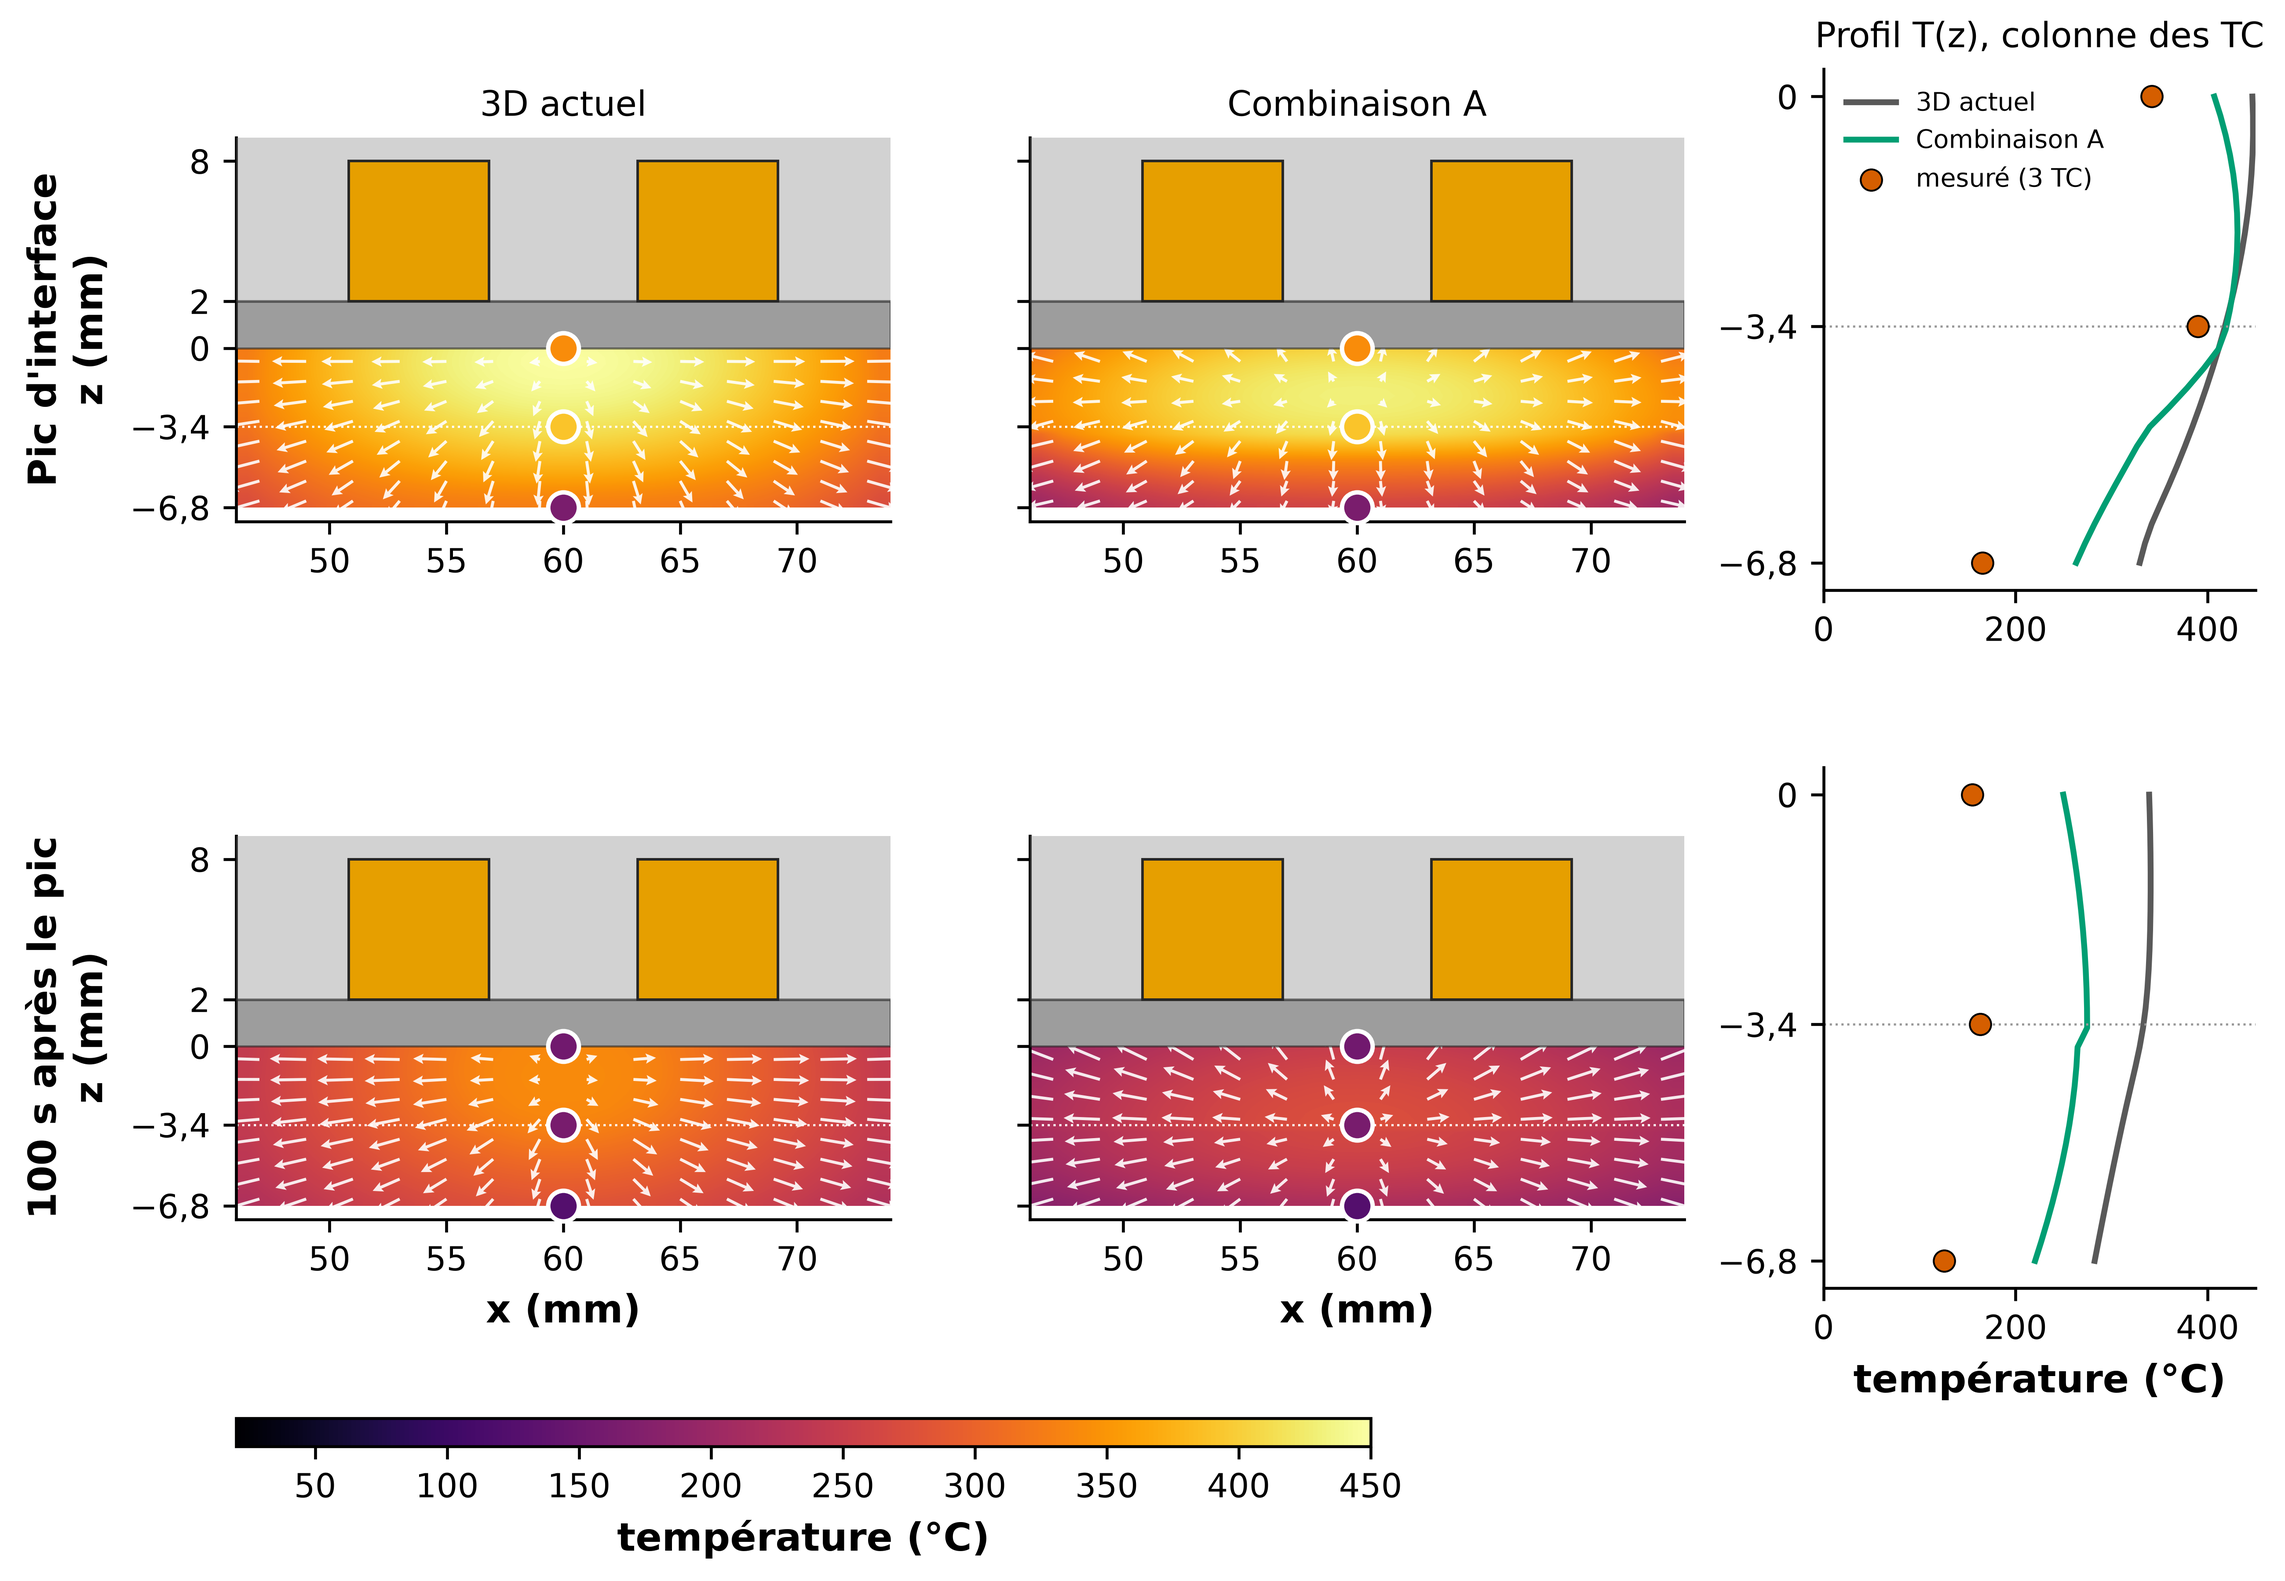
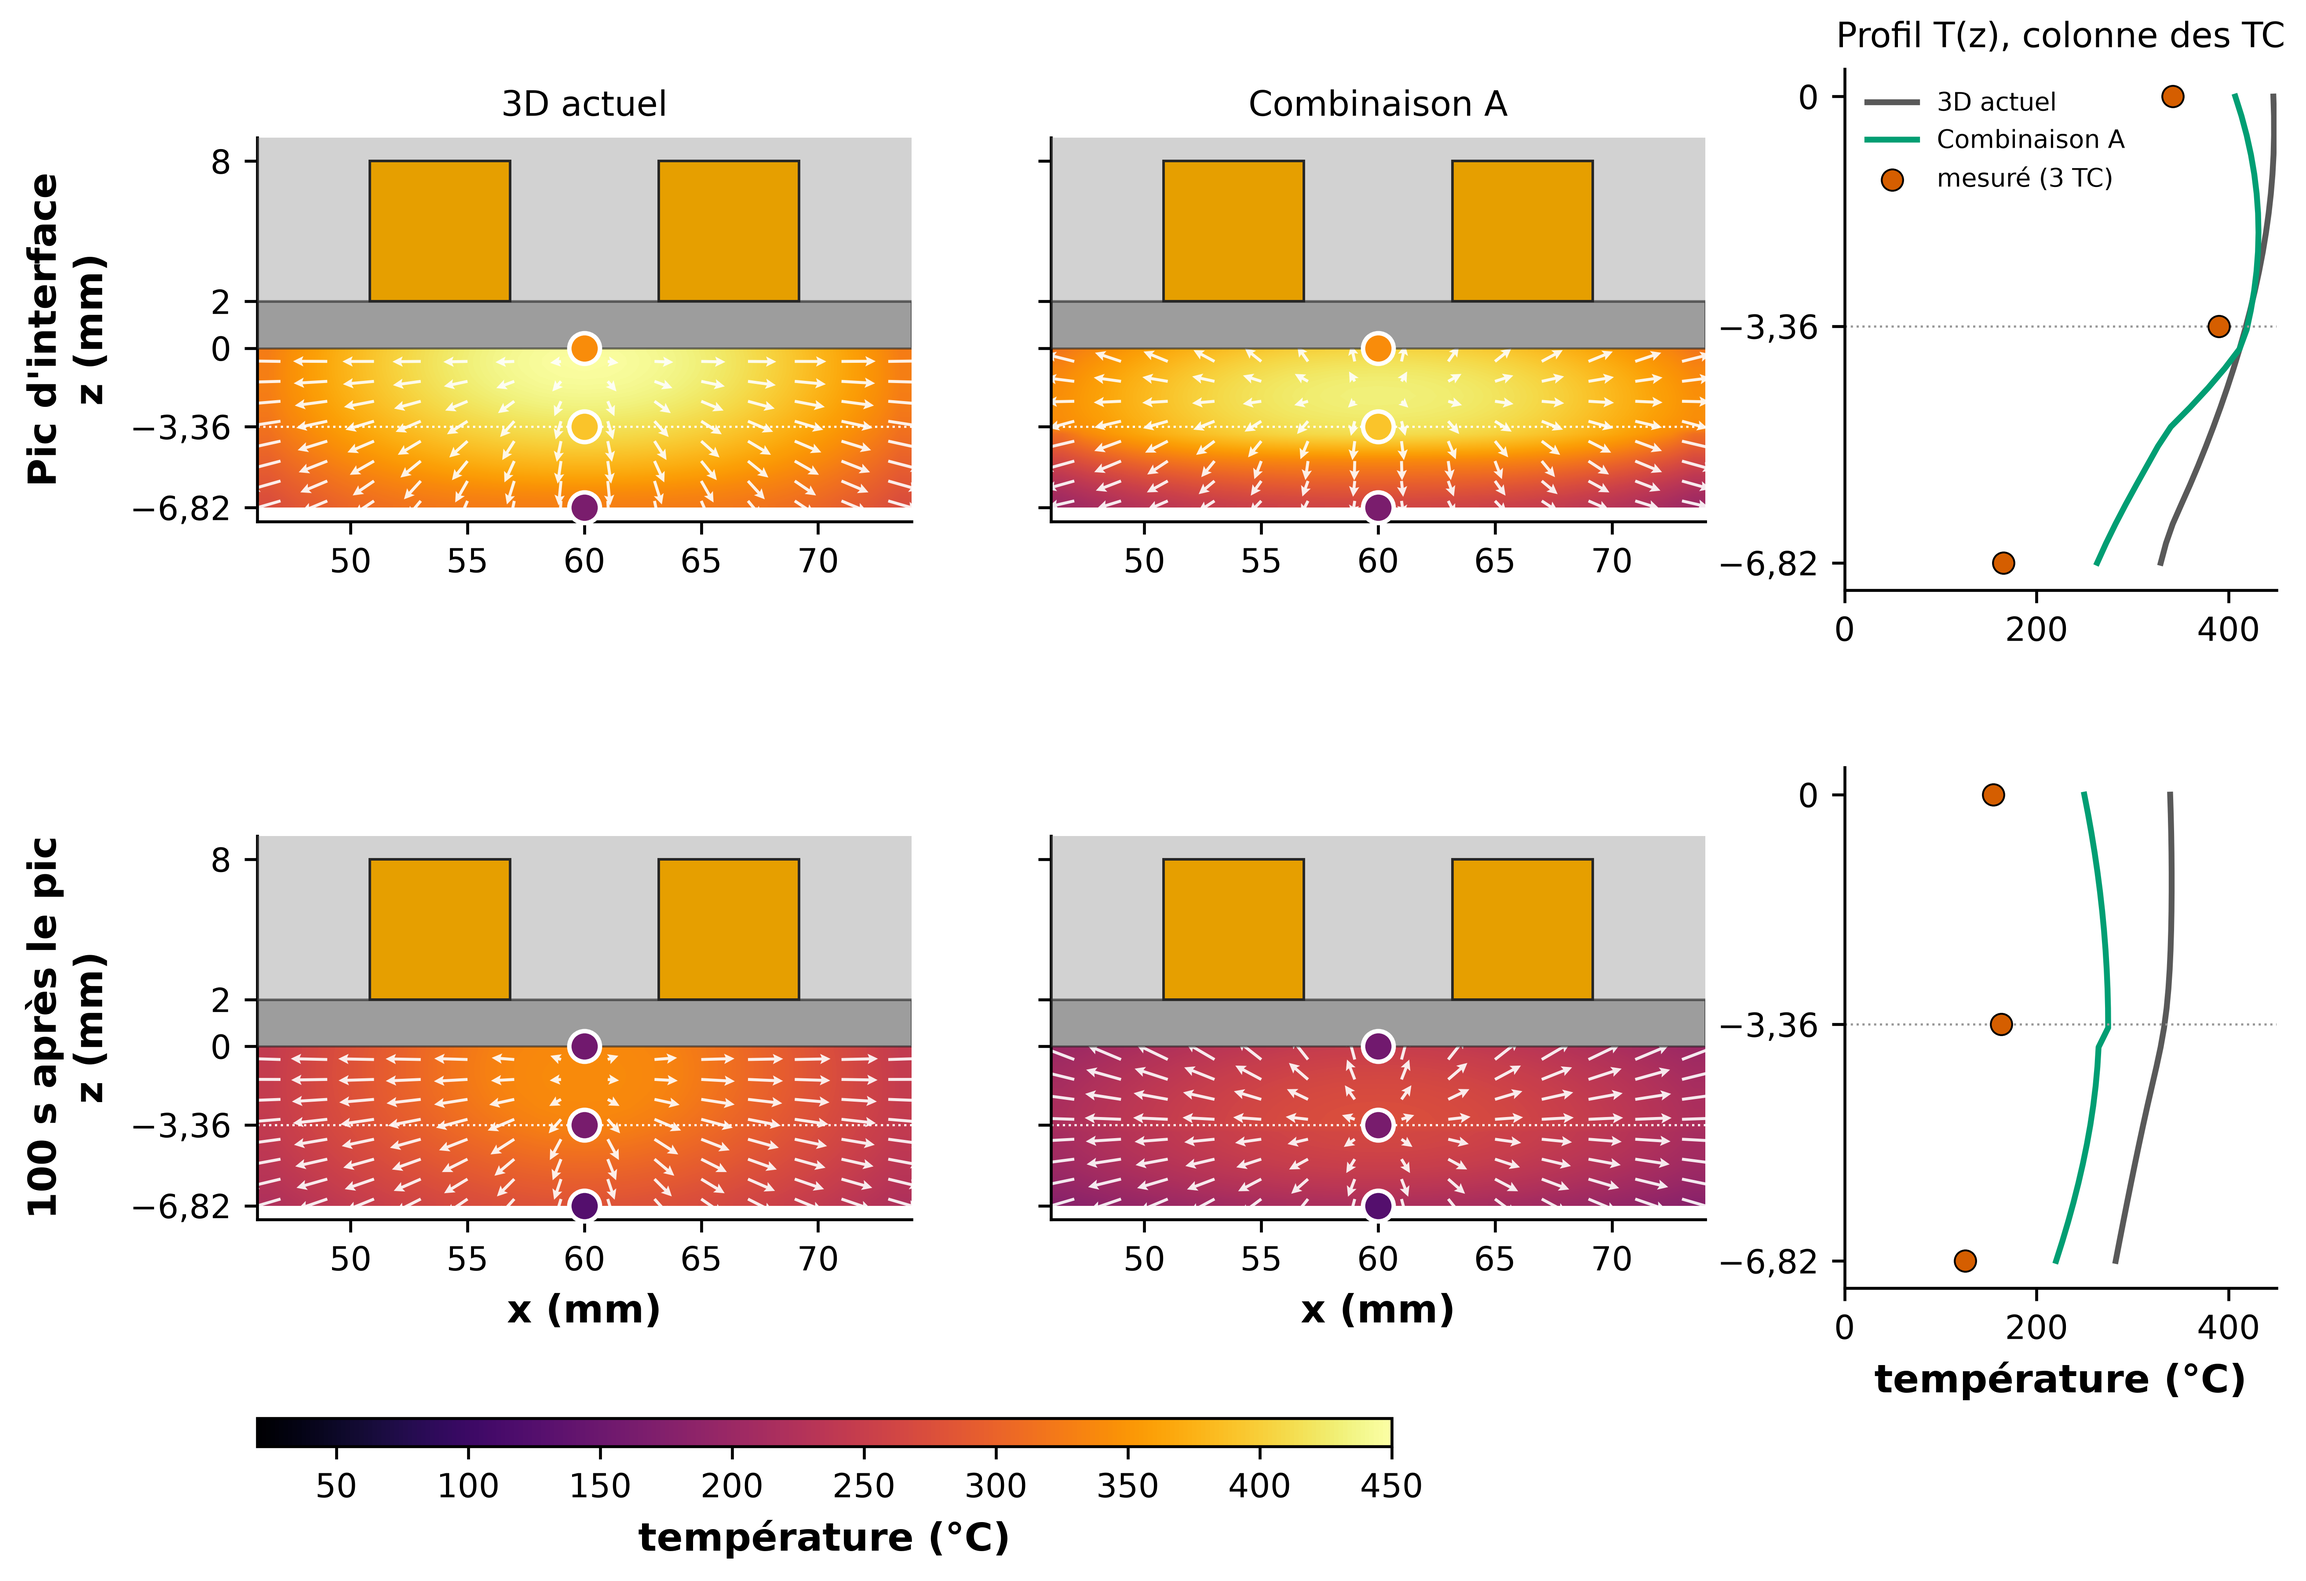
figure flux epaisseur : cotes exactes de l'empilement (-3,36 / -6,82 mm) calculees depuis la geometrie

diff --git a/code/scripts/gen/gen_fig74_flux_epaisseur.py b/code/scripts/gen/gen_fig74_flux_epaisseur.py
@@ -143,10 +143,15 @@ def carte(ax, d, k_t, tm, mes, k_m):
     ax.set_xlim(*FEN)
     ax.set_ylim(-sch.L_INF - 0.6, Z_HAUT)
     ax.set_yticks([-sch.L_INF, -sch.E_SUP, 0, sch.GAP_CERAM, sch.H_TUBE_TOP])
-    ax.set_yticklabels(["−6,8", "−3,4", "0", "2", "8"])
+    ax.set_yticklabels([mm(-sch.L_INF), mm(-sch.E_SUP), "0", "2", "8"])
     for s in ("top", "right"):
         ax.spines[s].set_visible(False)
     return im
+
+
+def mm(v):
+    """Cote en mm à deux décimales, virgule et vrai signe moins (−3,36 ; −6,82)."""
+    return f"{v:.2f}".replace("-", "−").replace(".", ",")
 
 
 def main(configs=("actuel", "ralenti"), nom_fig="fig74_flux_epaisseur.png"):
@@ -192,7 +197,7 @@ def main(configs=("actuel", "ralenti"), nom_fig="fig74_flux_epaisseur.png"):
         ax.set_ylim(-sch.L_INF - 0.4, 0.4)
         ax.set_xlim(0, TMAX)
         ax.set_yticks([-sch.L_INF, -sch.E_SUP, 0])
-        ax.set_yticklabels(["−6,8", "−3,4", "0"])
+        ax.set_yticklabels([mm(-sch.L_INF), mm(-sch.E_SUP), "0"])
         if r == 0:
             ax.set_title("Profil T(z), colonne des TC", fontsize=9.5)
             ax.legend(frameon=False, fontsize=6.8, loc="upper left")
